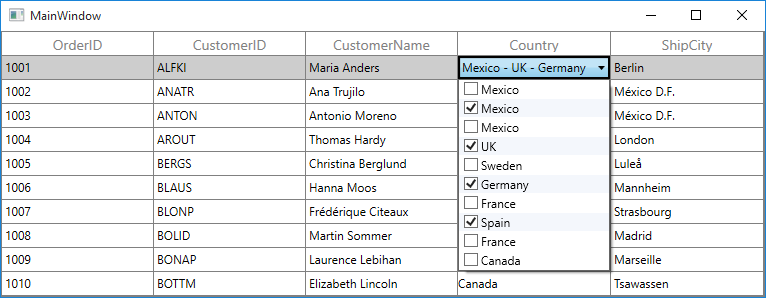
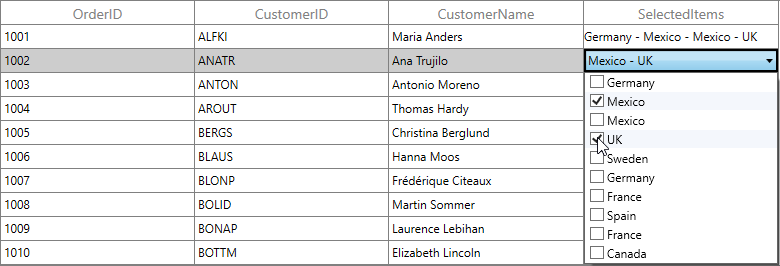
Column and Column Types.md files are modified and committed

Changed region(s): [[0.0, 0.0, 1.0, 1.0]]

diff --git a/wpf/SfDataGrid/Column-Types.md b/wpf/SfDataGrid/Column-Types.md
@@ -2444,7 +2444,7 @@ public class GridComboBoxRenderer : GridVirtualizingCellRenderer<TextBlock, Comb
             Path = new PropertyPath(comboBoxColumn.MappingName),
             Mode = BindingMode.TwoWay,
             UpdateSourceTrigger = UpdateSourceTrigger.PropertyChanged,
-            Converter = (comboBoxColumn.DisplayBinding as Binding).Converter,
+            Converter = new DisplayConverter(comboBoxColumn),
         };
         element.SetBinding(TextBlock.TextProperty, binding);
     }
@@ -2499,7 +2499,7 @@ public class GridComboBoxRenderer : GridVirtualizingCellRenderer<TextBlock, Comb
             Mode = BindingMode.TwoWay,
             UpdateSourceTrigger = UpdateSourceTrigger.PropertyChanged,
         };
-        element.SetBinding(ComboBoxAdv.SelectedValueProperty, binding);
+        element.SetBinding(ComboBoxAdv.SelectedItemsProperty, binding);
 
         var itemsSourceBinding = new Binding { Path = new PropertyPath("ItemsSource"), Mode = BindingMode.TwoWay, Source = comboboxColumn };
         element.SetBinding(ComboBoxAdv.ItemsSourceProperty, itemsSourceBinding);
@@ -2532,12 +2532,12 @@ public class GridComboBoxRenderer : GridVirtualizingCellRenderer<TextBlock, Comb
             case Key.Home:
             case Key.Enter:
             case Key.Escape:
-                return !((DatePicker)CurrentCellRendererElement).IsDropDownOpen;
+                return !((ComboBoxAdv)CurrentCellRendererElement).IsDropDownOpen;
             case Key.Down:
             case Key.Up:
             case Key.Left:
             case Key.Right:
-                return !((DatePicker)CurrentCellRendererElement).IsDropDownOpen;
+                return !((ComboBoxAdv)CurrentCellRendererElement).IsDropDownOpen;
         }
         return base.ShouldGridTryToHandleKeyDown(e);
     }
@@ -2565,6 +2565,57 @@ public class GridComboBoxRenderer : GridVirtualizingCellRenderer<TextBlock, Comb
             ((ComboBoxAdv)CurrentCellRendererElement).SelectedValue = value;
         else
             throw new Exception("Value cannot be Set for Unloaded Editor");
+    }
+}
+{% endhighlight %}
+{% endtabs %}
+
+Below code, returns the display value from multiple selected items.
+
+{% tabs %}
+{% highlight c# %} 
+public class DisplayConverter : IValueConverter
+{
+    GridColumn cachedColumn;
+    public DisplayConverter()
+    {
+
+    }
+
+    public DisplayConverter(GridColumn column)
+    {
+        cachedColumn = column;
+    }
+
+    public object Convert(object value, Type targetType, object parameter, System.Globalization.CultureInfo culture)
+    {        
+        var selectedItems = value as IEnumerable;
+        var displayMemberPath = string.Empty;
+
+        var column = cachedColumn as GridComboBoxColumn;               
+        displayMemberPath = column.DisplayMemberPath;                    
+
+        if (selectedItems == null)
+            return null;
+        
+        string selectedItem = string.Empty;
+         PropertyDescriptorCollection pdc = null;
+         var enumerator = selectedItems.GetEnumerator();
+        while (enumerator.MoveNext())
+        {
+            var type = enumerator.Current.GetType();
+
+            pdc = pdc ?? TypeDescriptor.GetProperties(type);
+
+                if (!string.IsNullOrEmpty(displayMemberPath))
+                    selectedItem +=  pdc.GetValue(enumerator.Current, displayMemberPath) + " - ";                    
+            }
+        return selectedItem.Substring(0,selectedItem.Length - 2);
+    }
+
+    public object ConvertBack(object value, Type targetType, object parameter, System.Globalization.CultureInfo culture)
+    {
+        return value;
     }
 }
 {% endhighlight %}

diff --git a/wpf/SfDataGrid/Columns.md b/wpf/SfDataGrid/Columns.md
@@ -1143,7 +1143,7 @@ You can change the `font setting` for one column width calculation using [GridCo
 
 {% tabs %}
 {% highlight c# %}
-Var gridColumn = this.dataGrid.Columns[0];
+var gridColumn = this.dataGrid.Columns[0];
 GridColumnSizer.SetFontFamily(gridColumn, new FontFamily("TimesNewRoman"));
 GridColumnSizer.SetFontSize(gridColumn, 10.0);
 GridColumnSizer.SetMargin(gridColumn, new Thickness(9, 3, 1, 3));
